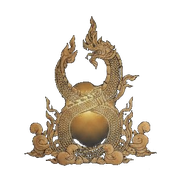
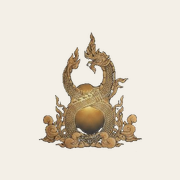
feat(pwa): make the site installable to phone home screens
Add a web app manifest (app/manifest.ts) and 192/512 + maskable app
icons so customers can add the site to their phone home screen and have
it open full-screen like a native app. Wire iOS standalone metadata and
a teal theme-color into the root layout. Regenerate apple-touch-icon
onto the brand cream background (transparent renders as black on iOS).

Changed region(s): [[0.1389, 0.0833, 0.8889, 0.9167]]

diff --git a/app/manifest.ts b/app/manifest.ts
@@ -1,0 +1,32 @@
+import type { MetadataRoute } from "next";
+import { CLINIC } from "@/lib/clinic";
+
+// Web App Manifest — makes the site installable to a phone home screen as a
+// standalone "app" (own icon, full-screen, no browser chrome). Next.js serves
+// this at /manifest.webmanifest and auto-injects <link rel="manifest"> for us.
+// Icons live in /public; theme/background colours mirror the brand teal + cream.
+export default function manifest(): MetadataRoute.Manifest {
+  return {
+    name: CLINIC.name,
+    short_name: "Manly Thai",
+    description: CLINIC.tagline,
+    start_url: "/",
+    id: "/",
+    display: "standalone",
+    background_color: "#F3EFE7", // cream — splash screen
+    theme_color: "#14A39F", // brand teal — status bar
+    lang: "en-AU",
+    dir: "ltr",
+    categories: ["health", "medical", "lifestyle"],
+    icons: [
+      { src: "/icon-192.png", sizes: "192x192", type: "image/png", purpose: "any" },
+      { src: "/icon-512.png", sizes: "512x512", type: "image/png", purpose: "any" },
+      {
+        src: "/icon-maskable-512.png",
+        sizes: "512x512",
+        type: "image/png",
+        purpose: "maskable",
+      },
+    ],
+  };
+}

diff --git a/app/layout.tsx b/app/layout.tsx
@@ -1,4 +1,4 @@
-import type { Metadata } from "next";
+import type { Metadata, Viewport } from "next";
 import { Inter } from "next/font/google";
 import "./globals.css";
 import { ThemeProvider } from "@/components/theme-provider";
@@ -16,6 +16,12 @@ export const metadata: Metadata = {
     icon: "/favicon.png",
     apple: "/apple-touch-icon.png",
   },
+  // Installable-app behaviour on iOS (Add to Home Screen → opens full-screen).
+  appleWebApp: {
+    capable: true,
+    title: "Manly Thai",
+    statusBarStyle: "default",
+  },
   metadataBase: new URL(CLINIC.domain),
   openGraph: {
     type: "website",
@@ -26,6 +32,10 @@ export const metadata: Metadata = {
   twitter: { card: "summary_large_image", images: ["/og.png"] },
   alternates: { canonical: "/" },
   robots: { index: true, follow: true },
+};
+
+export const viewport: Viewport = {
+  themeColor: "#14A39F", // brand teal — tints the status bar in standalone/PWA mode
 };
 
 export default function RootLayout({